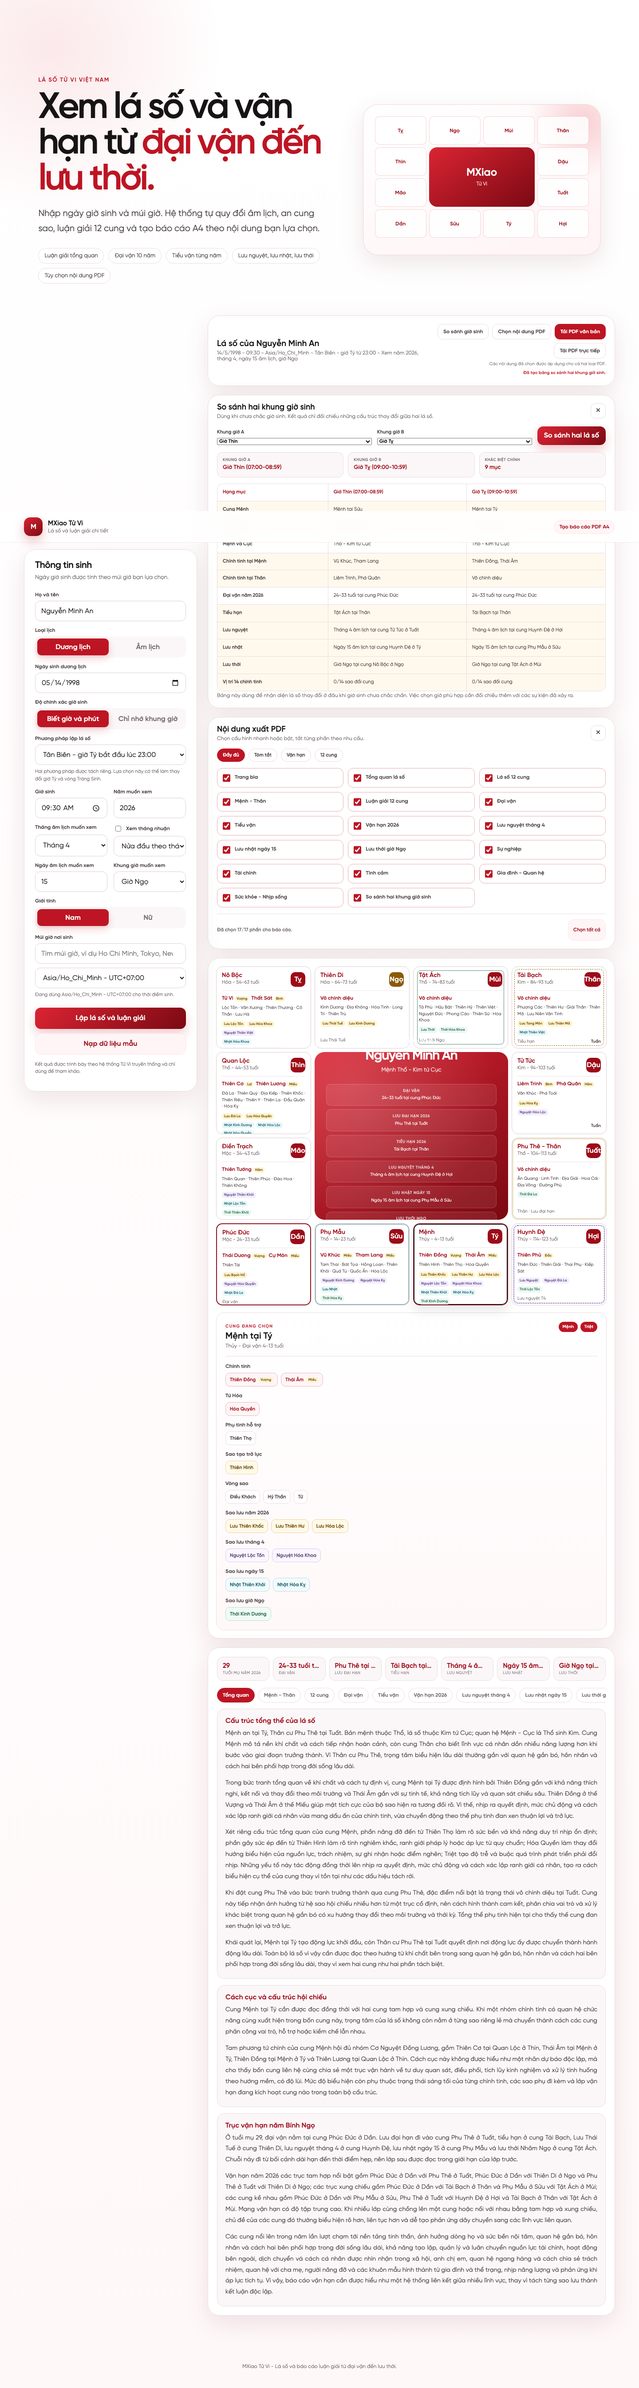
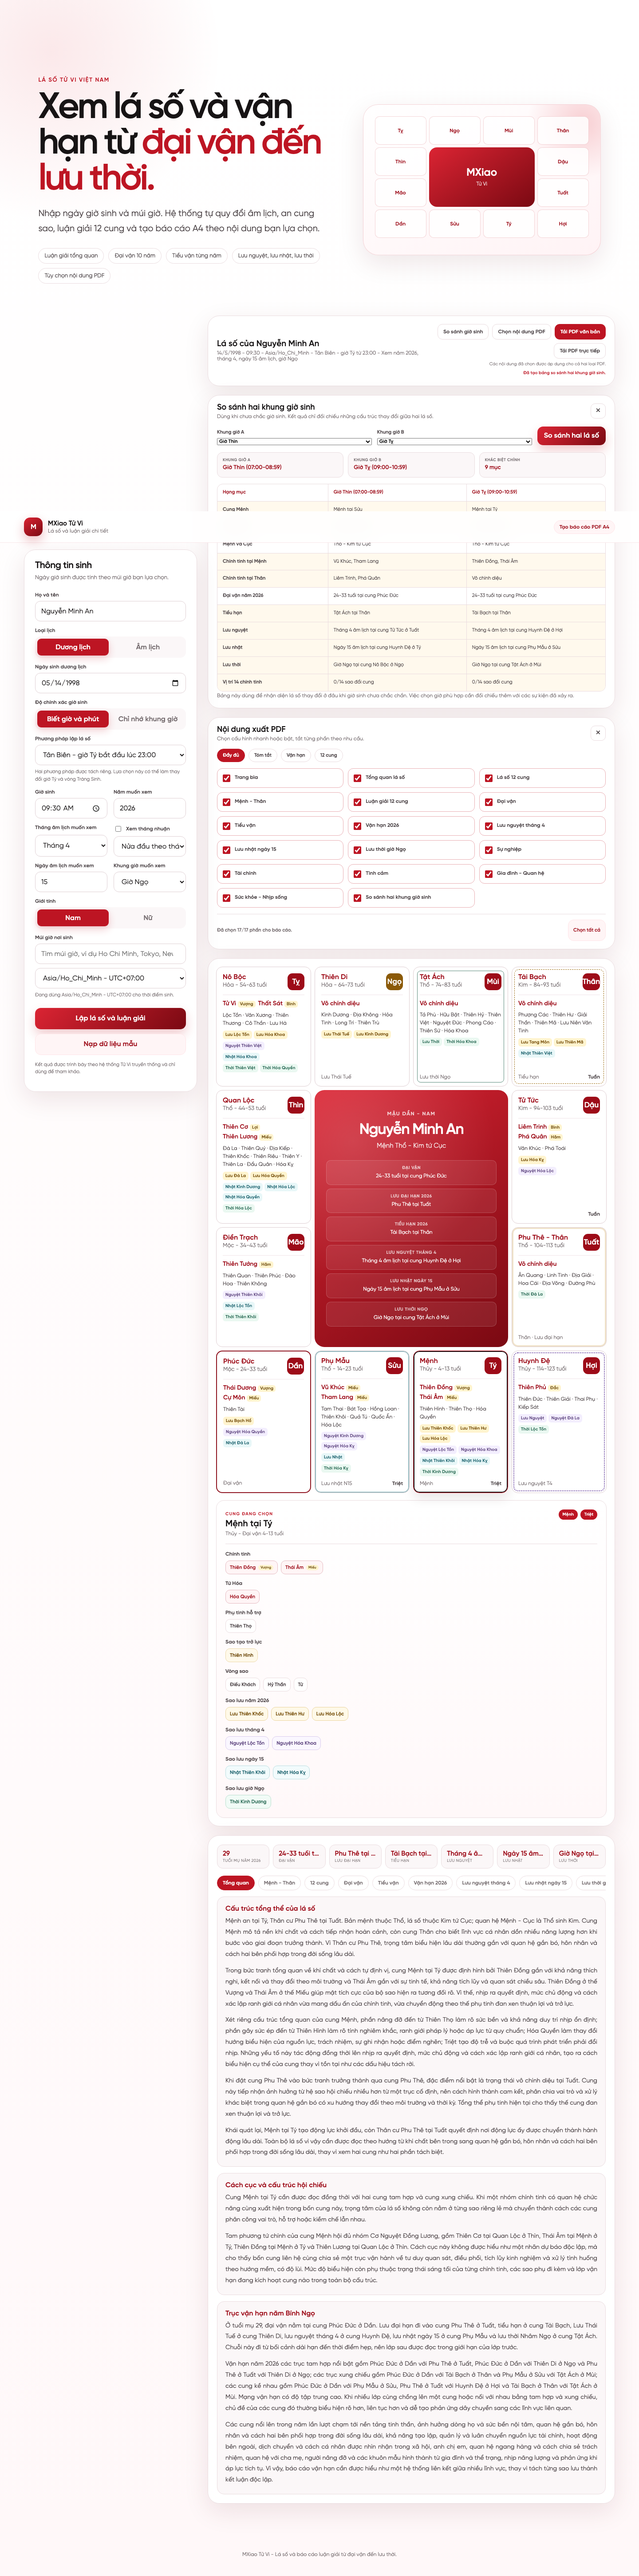
Fix chart sizing and prevent content overlap

diff --git a/assets/styles.css b/assets/styles.css
@@ -195,7 +195,7 @@ a { color: inherit; }
   min-width: 820px;
   display: grid;
   grid-template-columns: repeat(4, minmax(0, 1fr));
-  grid-template-rows: repeat(4, 185px);
+  grid-template-rows: repeat(4, minmax(270px, auto));
   gap: 8px;
 }
 .palace {
@@ -205,19 +205,19 @@ a { color: inherit; }
   flex-direction: column;
   border: 1px solid #decdd1;
   border-radius: 14px;
-  padding: 12px;
+  padding: 14px;
   background: #fff;
 }
 .palace.active { border-color: var(--mx-red-600); box-shadow: inset 0 0 0 2px rgba(219,36,51,.10); }
-.palace-head { display: flex; align-items: flex-start; justify-content: space-between; gap: 8px; padding-bottom: 8px; border-bottom: 1px solid #f0e4e7; }
-.palace-title strong { display: block; color: var(--mx-red-800); font-size: 14px; }
-.palace-title span { display: block; margin-top: 2px; color: var(--ink-500); font-size: 11px; }
-.branch-badge { min-width: 33px; height: 33px; display: grid; place-items: center; border-radius: 10px; color: white; background: var(--mx-red-800); font-weight: 900; }
-.major-stars { display: flex; flex-wrap: wrap; gap: 5px; margin-top: 10px; }
-.major-star { display: inline-flex; align-items: baseline; gap: 4px; color: var(--mx-red-800); font-size: 12px; font-weight: 900; }
-.major-star small { padding: 2px 4px; border-radius: 5px; color: #725213; background: #fff4ce; font-size: 8px; font-weight: 850; }
-.minor-stars { margin-top: 8px; color: var(--ink-700); font-size: 10px; line-height: 1.45; }
-.palace-foot { margin-top: auto; display: flex; justify-content: space-between; gap: 8px; padding-top: 8px; color: var(--ink-500); font-size: 10px; }
+.palace-head { display: flex; align-items: flex-start; justify-content: space-between; gap: 8px; padding-bottom: 10px; border-bottom: 1px solid #f0e4e7; }
+.palace-title strong { display: block; color: var(--mx-red-800); font-size: 16px; }
+.palace-title span { display: block; margin-top: 3px; color: var(--ink-500); font-size: 13px; }
+.branch-badge { min-width: 38px; height: 38px; display: grid; place-items: center; border-radius: 11px; color: white; background: var(--mx-red-800); font-size: 17px; font-weight: 900; }
+.major-stars { display: flex; flex-wrap: wrap; gap: 6px; margin-top: 12px; }
+.major-star { display: inline-flex; align-items: baseline; gap: 4px; color: var(--mx-red-800); font-size: 14px; font-weight: 900; }
+.major-star small { padding: 2px 5px; border-radius: 5px; color: #725213; background: #fff4ce; font-size: 10px; font-weight: 850; }
+.minor-stars { margin-top: 9px; color: var(--ink-700); font-size: 12px; line-height: 1.5; }
+.palace-foot { margin-top: auto; display: flex; justify-content: space-between; gap: 8px; padding-top: 10px; color: var(--ink-500); font-size: 12px; }
 .tuan-triet { color: var(--mx-red-700); font-weight: 850; }
 .chart-center {
   grid-column: 2 / 4;
@@ -233,9 +233,9 @@ a { color: inherit; }
     radial-gradient(circle at 20% 20%, rgba(255,255,255,.16), transparent 20rem),
     linear-gradient(145deg, var(--mx-red-600), var(--mx-red-900));
 }
-.center-kicker { font-size: 11px; font-weight: 850; letter-spacing: .12em; text-transform: uppercase; opacity: .76; }
-.chart-center h3 { margin: 12px 0 6px; font-size: 30px; letter-spacing: -.04em; }
-.chart-center p { margin: 0; max-width: 360px; font-size: 13px; line-height: 1.6; opacity: .86; }
+.center-kicker { font-size: 12px; font-weight: 850; letter-spacing: .12em; text-transform: uppercase; opacity: .76; }
+.chart-center h3 { margin: 12px 0 6px; font-size: 34px; letter-spacing: -.04em; }
+.chart-center p { margin: 0; max-width: 380px; font-size: 15px; line-height: 1.6; opacity: .86; }
 .center-meta { display: grid; grid-template-columns: repeat(3, 1fr); gap: 8px; width: 100%; margin-top: 24px; }
 .center-meta div { border: 1px solid rgba(255,255,255,.20); border-radius: 12px; padding: 10px; background: rgba(255,255,255,.08); }
 .center-meta span { display: block; font-size: 10px; opacity: .7; }
@@ -386,7 +386,7 @@ a { color: inherit; }
 @media (max-width: 760px) {
   html, body { max-width: 100%; overflow-x: hidden; }
   .chart-panel { overflow-x: auto; }
-  .chart-grid { min-width: 760px; }
+  .chart-grid { min-width: 760px; grid-template-rows: repeat(4, minmax(285px, auto)); }
 }
 .field input[type="search"] + select { margin-top: 2px; }
 .palace.active-decade { border-color: #8f1521; border-style: solid; border-width: 2px; }
@@ -394,16 +394,16 @@ a { color: inherit; }
 .palace.minor-fortune::after { content: ""; position: absolute; inset: 5px; border: 1px dashed #9b6a0c; border-radius: 10px; pointer-events: none; }
 .palace.year-branch .branch-badge { background: #8b5a08; }
 .annual-stars { display: flex; flex-wrap: wrap; gap: 4px; margin-top: 7px; position: relative; z-index: 1; }
-.annual-stars span { padding: 3px 5px; border-radius: 6px; color: #744d08; background: #fff4cf; font-size: 8px; font-weight: 800; }
+.annual-stars span { padding: 4px 6px; border-radius: 6px; color: #744d08; background: #fff4cf; font-size: 10px; font-weight: 800; }
 .center-fortunes { display: grid; gap: 8px; width: 100%; margin-top: 20px; }
-.center-fortunes span { display: grid; gap: 3px; padding: 9px 11px; border: 1px solid rgba(255,255,255,.18); border-radius: 10px; background: rgba(255,255,255,.08); font-size: 10px; line-height: 1.4; }
-.center-fortunes b { font-size: 9px; text-transform: uppercase; letter-spacing: .06em; opacity: .72; }
+.center-fortunes span { display: grid; gap: 3px; padding: 10px 12px; border: 1px solid rgba(255,255,255,.18); border-radius: 10px; background: rgba(255,255,255,.08); font-size: 12px; line-height: 1.4; }
+.center-fortunes b { font-size: 10px; text-transform: uppercase; letter-spacing: .06em; opacity: .72; }
 .group-annual .star-chip { color: #744d08; border-color: #ead49e; background: #fff9e8; }
 @media (max-width: 760px) { .center-fortunes { margin-top: 14px; } }
 .toolbar-hint { max-width: 360px; color: var(--ink-500); font-size: 10px; line-height: 1.45; text-align: right; }
 .palace.monthly-fortune { outline: 2px dotted #7754a8; outline-offset: -6px; }
 .monthly-stars { display: flex; flex-wrap: wrap; gap: 4px; margin-top: 6px; position: relative; z-index: 1; }
-.monthly-stars span { padding: 3px 5px; border-radius: 6px; color: #573d79; background: #f3eefe; font-size: 8px; font-weight: 800; }
+.monthly-stars span { padding: 4px 6px; border-radius: 6px; color: #573d79; background: #f3eefe; font-size: 10px; font-weight: 800; }
 .group-monthly .star-chip { color: #573d79; border-color: #d9cbed; background: #faf7ff; }
 .report-summary-bar { grid-template-columns: repeat(5, minmax(0, 1fr)); }
 
@@ -480,8 +480,8 @@ a { color: inherit; }
 .palace.daily-fortune { box-shadow: inset 0 0 0 2px rgba(20, 104, 118, .46); }
 .palace.hourly-fortune::before { content: ""; position: absolute; inset: 8px; border: 1px solid rgba(29, 96, 74, .72); border-radius: 8px; pointer-events: none; }
 .daily-stars, .hourly-stars { display: flex; flex-wrap: wrap; gap: 4px; margin-top: 6px; position: relative; z-index: 1; }
-.daily-stars span { padding: 3px 5px; border-radius: 6px; color: #0f5965; background: #e8f7f8; font-size: 8px; font-weight: 800; }
-.hourly-stars span { padding: 3px 5px; border-radius: 6px; color: #1d614b; background: #eaf8f1; font-size: 8px; font-weight: 800; }
+.daily-stars span { padding: 4px 6px; border-radius: 6px; color: #0f5965; background: #e8f7f8; font-size: 10px; font-weight: 800; }
+.hourly-stars span { padding: 4px 6px; border-radius: 6px; color: #1d614b; background: #eaf8f1; font-size: 10px; font-weight: 800; }
 .group-daily .star-chip { color: #0f5965; border-color: #b9dfe2; background: #f2fbfc; }
 .group-hourly .star-chip { color: #1d614b; border-color: #b9dfcf; background: #f1fbf6; }
 .report-summary-bar { grid-template-columns: repeat(7, minmax(0, 1fr)); }

diff --git a/dist/assets/styles.css b/dist/assets/styles.css
@@ -195,7 +195,7 @@ a { color: inherit; }
   min-width: 820px;
   display: grid;
   grid-template-columns: repeat(4, minmax(0, 1fr));
-  grid-template-rows: repeat(4, 185px);
+  grid-template-rows: repeat(4, minmax(270px, auto));
   gap: 8px;
 }
 .palace {
@@ -205,19 +205,19 @@ a { color: inherit; }
   flex-direction: column;
   border: 1px solid #decdd1;
   border-radius: 14px;
-  padding: 12px;
+  padding: 14px;
   background: #fff;
 }
 .palace.active { border-color: var(--mx-red-600); box-shadow: inset 0 0 0 2px rgba(219,36,51,.10); }
-.palace-head { display: flex; align-items: flex-start; justify-content: space-between; gap: 8px; padding-bottom: 8px; border-bottom: 1px solid #f0e4e7; }
-.palace-title strong { display: block; color: var(--mx-red-800); font-size: 14px; }
-.palace-title span { display: block; margin-top: 2px; color: var(--ink-500); font-size: 11px; }
-.branch-badge { min-width: 33px; height: 33px; display: grid; place-items: center; border-radius: 10px; color: white; background: var(--mx-red-800); font-weight: 900; }
-.major-stars { display: flex; flex-wrap: wrap; gap: 5px; margin-top: 10px; }
-.major-star { display: inline-flex; align-items: baseline; gap: 4px; color: var(--mx-red-800); font-size: 12px; font-weight: 900; }
-.major-star small { padding: 2px 4px; border-radius: 5px; color: #725213; background: #fff4ce; font-size: 8px; font-weight: 850; }
-.minor-stars { margin-top: 8px; color: var(--ink-700); font-size: 10px; line-height: 1.45; }
-.palace-foot { margin-top: auto; display: flex; justify-content: space-between; gap: 8px; padding-top: 8px; color: var(--ink-500); font-size: 10px; }
+.palace-head { display: flex; align-items: flex-start; justify-content: space-between; gap: 8px; padding-bottom: 10px; border-bottom: 1px solid #f0e4e7; }
+.palace-title strong { display: block; color: var(--mx-red-800); font-size: 16px; }
+.palace-title span { display: block; margin-top: 3px; color: var(--ink-500); font-size: 13px; }
+.branch-badge { min-width: 38px; height: 38px; display: grid; place-items: center; border-radius: 11px; color: white; background: var(--mx-red-800); font-size: 17px; font-weight: 900; }
+.major-stars { display: flex; flex-wrap: wrap; gap: 6px; margin-top: 12px; }
+.major-star { display: inline-flex; align-items: baseline; gap: 4px; color: var(--mx-red-800); font-size: 14px; font-weight: 900; }
+.major-star small { padding: 2px 5px; border-radius: 5px; color: #725213; background: #fff4ce; font-size: 10px; font-weight: 850; }
+.minor-stars { margin-top: 9px; color: var(--ink-700); font-size: 12px; line-height: 1.5; }
+.palace-foot { margin-top: auto; display: flex; justify-content: space-between; gap: 8px; padding-top: 10px; color: var(--ink-500); font-size: 12px; }
 .tuan-triet { color: var(--mx-red-700); font-weight: 850; }
 .chart-center {
   grid-column: 2 / 4;
@@ -233,9 +233,9 @@ a { color: inherit; }
     radial-gradient(circle at 20% 20%, rgba(255,255,255,.16), transparent 20rem),
     linear-gradient(145deg, var(--mx-red-600), var(--mx-red-900));
 }
-.center-kicker { font-size: 11px; font-weight: 850; letter-spacing: .12em; text-transform: uppercase; opacity: .76; }
-.chart-center h3 { margin: 12px 0 6px; font-size: 30px; letter-spacing: -.04em; }
-.chart-center p { margin: 0; max-width: 360px; font-size: 13px; line-height: 1.6; opacity: .86; }
+.center-kicker { font-size: 12px; font-weight: 850; letter-spacing: .12em; text-transform: uppercase; opacity: .76; }
+.chart-center h3 { margin: 12px 0 6px; font-size: 34px; letter-spacing: -.04em; }
+.chart-center p { margin: 0; max-width: 380px; font-size: 15px; line-height: 1.6; opacity: .86; }
 .center-meta { display: grid; grid-template-columns: repeat(3, 1fr); gap: 8px; width: 100%; margin-top: 24px; }
 .center-meta div { border: 1px solid rgba(255,255,255,.20); border-radius: 12px; padding: 10px; background: rgba(255,255,255,.08); }
 .center-meta span { display: block; font-size: 10px; opacity: .7; }
@@ -386,7 +386,7 @@ a { color: inherit; }
 @media (max-width: 760px) {
   html, body { max-width: 100%; overflow-x: hidden; }
   .chart-panel { overflow-x: auto; }
-  .chart-grid { min-width: 760px; }
+  .chart-grid { min-width: 760px; grid-template-rows: repeat(4, minmax(285px, auto)); }
 }
 .field input[type="search"] + select { margin-top: 2px; }
 .palace.active-decade { border-color: #8f1521; border-style: solid; border-width: 2px; }
@@ -394,16 +394,16 @@ a { color: inherit; }
 .palace.minor-fortune::after { content: ""; position: absolute; inset: 5px; border: 1px dashed #9b6a0c; border-radius: 10px; pointer-events: none; }
 .palace.year-branch .branch-badge { background: #8b5a08; }
 .annual-stars { display: flex; flex-wrap: wrap; gap: 4px; margin-top: 7px; position: relative; z-index: 1; }
-.annual-stars span { padding: 3px 5px; border-radius: 6px; color: #744d08; background: #fff4cf; font-size: 8px; font-weight: 800; }
+.annual-stars span { padding: 4px 6px; border-radius: 6px; color: #744d08; background: #fff4cf; font-size: 10px; font-weight: 800; }
 .center-fortunes { display: grid; gap: 8px; width: 100%; margin-top: 20px; }
-.center-fortunes span { display: grid; gap: 3px; padding: 9px 11px; border: 1px solid rgba(255,255,255,.18); border-radius: 10px; background: rgba(255,255,255,.08); font-size: 10px; line-height: 1.4; }
-.center-fortunes b { font-size: 9px; text-transform: uppercase; letter-spacing: .06em; opacity: .72; }
+.center-fortunes span { display: grid; gap: 3px; padding: 10px 12px; border: 1px solid rgba(255,255,255,.18); border-radius: 10px; background: rgba(255,255,255,.08); font-size: 12px; line-height: 1.4; }
+.center-fortunes b { font-size: 10px; text-transform: uppercase; letter-spacing: .06em; opacity: .72; }
 .group-annual .star-chip { color: #744d08; border-color: #ead49e; background: #fff9e8; }
 @media (max-width: 760px) { .center-fortunes { margin-top: 14px; } }
 .toolbar-hint { max-width: 360px; color: var(--ink-500); font-size: 10px; line-height: 1.45; text-align: right; }
 .palace.monthly-fortune { outline: 2px dotted #7754a8; outline-offset: -6px; }
 .monthly-stars { display: flex; flex-wrap: wrap; gap: 4px; margin-top: 6px; position: relative; z-index: 1; }
-.monthly-stars span { padding: 3px 5px; border-radius: 6px; color: #573d79; background: #f3eefe; font-size: 8px; font-weight: 800; }
+.monthly-stars span { padding: 4px 6px; border-radius: 6px; color: #573d79; background: #f3eefe; font-size: 10px; font-weight: 800; }
 .group-monthly .star-chip { color: #573d79; border-color: #d9cbed; background: #faf7ff; }
 .report-summary-bar { grid-template-columns: repeat(5, minmax(0, 1fr)); }
 
@@ -480,8 +480,8 @@ a { color: inherit; }
 .palace.daily-fortune { box-shadow: inset 0 0 0 2px rgba(20, 104, 118, .46); }
 .palace.hourly-fortune::before { content: ""; position: absolute; inset: 8px; border: 1px solid rgba(29, 96, 74, .72); border-radius: 8px; pointer-events: none; }
 .daily-stars, .hourly-stars { display: flex; flex-wrap: wrap; gap: 4px; margin-top: 6px; position: relative; z-index: 1; }
-.daily-stars span { padding: 3px 5px; border-radius: 6px; color: #0f5965; background: #e8f7f8; font-size: 8px; font-weight: 800; }
-.hourly-stars span { padding: 3px 5px; border-radius: 6px; color: #1d614b; background: #eaf8f1; font-size: 8px; font-weight: 800; }
+.daily-stars span { padding: 4px 6px; border-radius: 6px; color: #0f5965; background: #e8f7f8; font-size: 10px; font-weight: 800; }
+.hourly-stars span { padding: 4px 6px; border-radius: 6px; color: #1d614b; background: #eaf8f1; font-size: 10px; font-weight: 800; }
 .group-daily .star-chip { color: #0f5965; border-color: #b9dfe2; background: #f2fbfc; }
 .group-hourly .star-chip { color: #1d614b; border-color: #b9dfcf; background: #f1fbf6; }
 .report-summary-bar { grid-template-columns: repeat(7, minmax(0, 1fr)); }

diff --git a/tests/browser_e2e.py b/tests/browser_e2e.py
@@ -110,6 +110,17 @@ try:
         assert desktop.locator('.annual-decade').count() >= 1
         assert desktop.locator('.minor-fortune').count() >= 1
         assert desktop.locator('.year-branch').count() >= 1
+        desktop.set_viewport_size({'width': 911, 'height': 900})
+        desktop.wait_for_timeout(100)
+        chart_overflow = desktop.locator('.chart-center, .palace').evaluate_all(
+            '(elements) => elements.filter((element) => element.scrollHeight > element.clientHeight + 1).map((element) => element.className)'
+        )
+        assert chart_overflow == []
+        chart_font_sizes = desktop.locator('.palace-title strong, .major-star, .minor-stars, .center-fortunes span').evaluate_all(
+            '(elements) => elements.map((element) => parseFloat(getComputedStyle(element).fontSize))'
+        )
+        assert min(chart_font_sizes) >= 12
+        desktop.set_viewport_size({'width': 1440, 'height': 1100})
         assert desktop.locator('#viewLeap').count() == 1
         assert desktop.locator('#leapFortuneMode').count() == 1
         desktop.locator('#viewYear').fill('2025')
